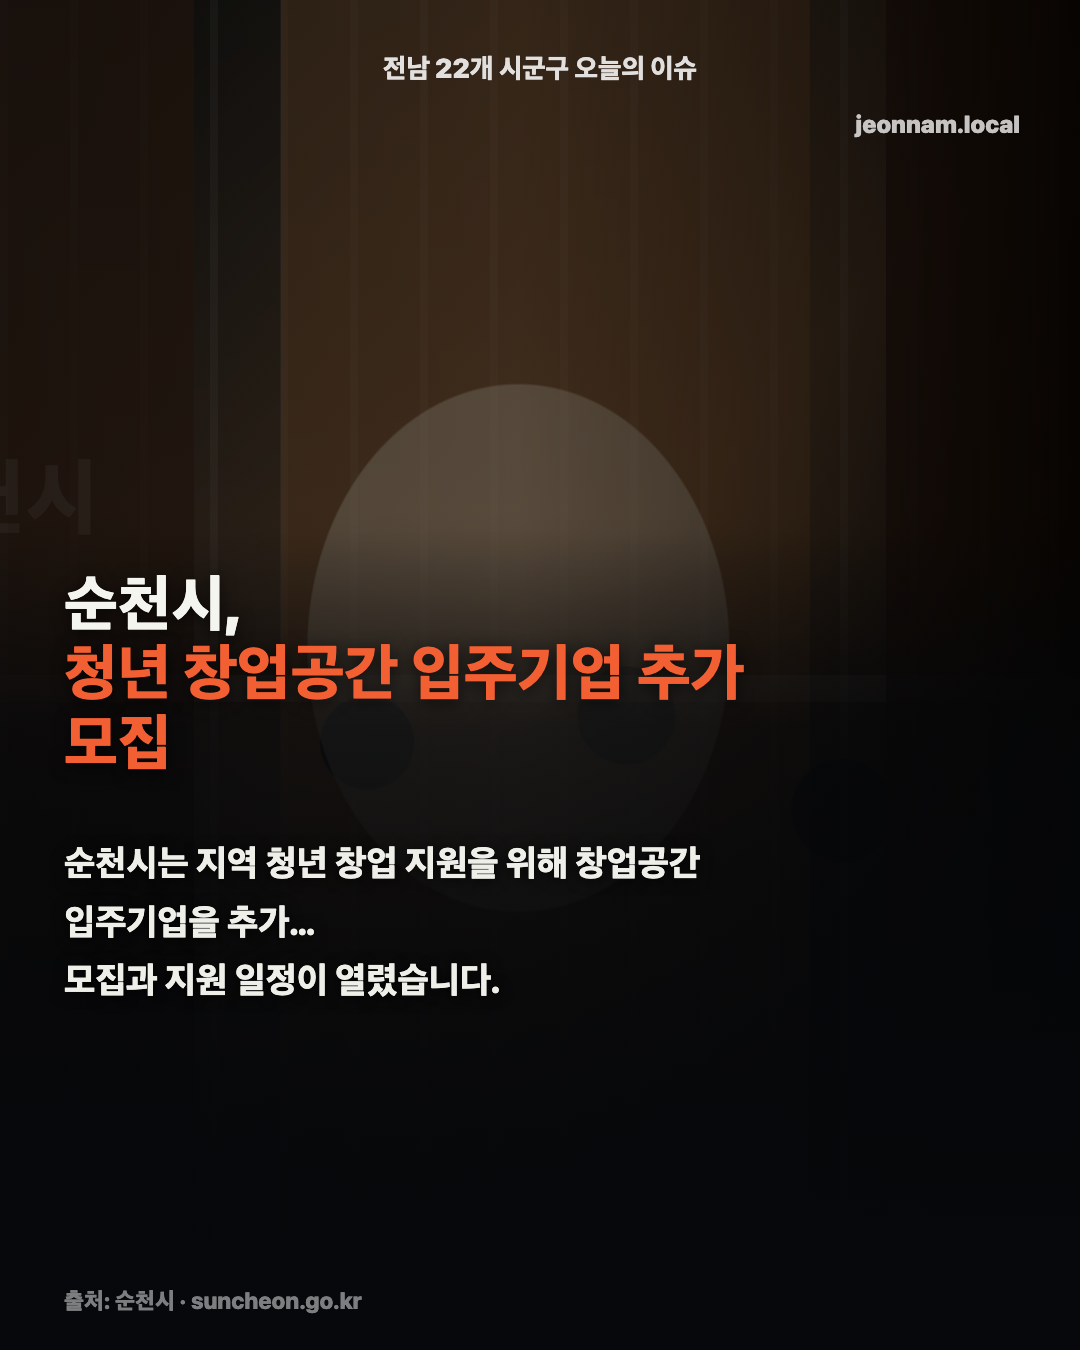
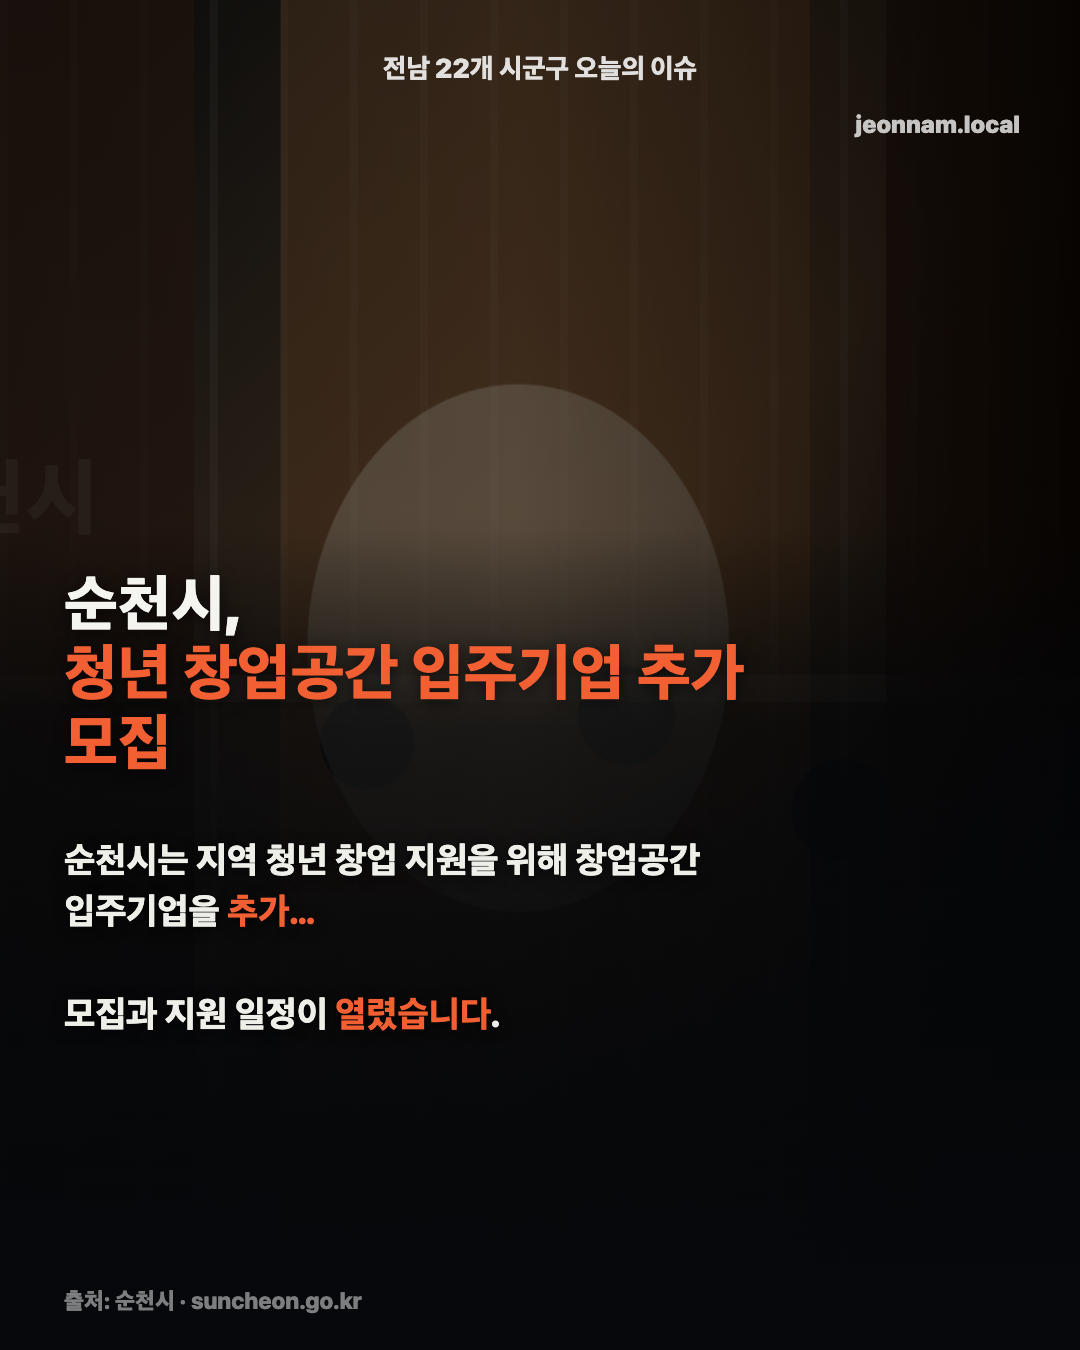
Add inline summary accents

Changed region(s): [[0.0611, 0.6222, 0.6417, 0.7778]]

diff --git a/reports/2026-05-22/html/목포시.html b/reports/2026-05-22/html/목포시.html
@@ -125,11 +125,14 @@
       margin-top: 58px;
       color: #efefea;
       font-size: 36px;
-      line-height: 1.62;
+      line-height: 1.42;
       font-weight: 800;
       max-width: 660px;
       word-break: keep-all;
       text-shadow: 0 2px 14px rgba(0,0,0,.7);
+    }
+    .summary .accent {
+      color: #f15f32;
     }
     .source {
       position: absolute;
@@ -163,7 +166,7 @@
       <h1 class="headline">목포시,<br><span class="accent">해상케이블카 주변 관광 동선 개선 사업 착수</span></h1>
       <div class="category">문화·관광.</div>
       <div class="date">• 2026-05-22</div>
-      <section class="summary">목포시는 주요 관광지 방문객 분산과 보행 안전을 위해 관광 동…<br>관광 동선 변화가 예고됐습니다.</section>
+      <section class="summary">목포시는 주요 관광지 방문객 분산과 보행 안전을 위해 관광 동…<br><br>관광 동선 변화가 <span class="accent">예고됐습니다</span>.</section>
     </section>
     <footer class="source">출처: 목포시 · mokpo.go.kr</footer>
   </main>

diff --git a/reports/2026-05-22/html/순천시.html b/reports/2026-05-22/html/순천시.html
@@ -125,11 +125,14 @@
       margin-top: 58px;
       color: #efefea;
       font-size: 36px;
-      line-height: 1.62;
+      line-height: 1.42;
       font-weight: 800;
       max-width: 660px;
       word-break: keep-all;
       text-shadow: 0 2px 14px rgba(0,0,0,.7);
+    }
+    .summary .accent {
+      color: #f15f32;
     }
     .source {
       position: absolute;
@@ -163,7 +166,7 @@
       <h1 class="headline">순천시,<br><span class="accent">청년 창업공간 입주기업 추가 모집</span></h1>
       <div class="category">복지·생활.</div>
       <div class="date">• 2026-05-22</div>
-      <section class="summary">순천시는 지역 청년 창업 지원을 위해 창업공간 입주기업을 추가…<br>모집과 지원 일정이 열렸습니다.</section>
+      <section class="summary">순천시는 지역 청년 창업 지원을 위해 창업공간 입주기업을 <span class="accent">추가…</span><br><br>모집과 지원 일정이 <span class="accent">열렸습니다</span>.</section>
     </section>
     <footer class="source">출처: 순천시 · suncheon.go.kr</footer>
   </main>

diff --git a/reports/2026-05-22/html/여수시.html b/reports/2026-05-22/html/여수시.html
@@ -125,11 +125,14 @@
       margin-top: 58px;
       color: #efefea;
       font-size: 36px;
-      line-height: 1.62;
+      line-height: 1.42;
       font-weight: 800;
       max-width: 660px;
       word-break: keep-all;
       text-shadow: 0 2px 14px rgba(0,0,0,.7);
+    }
+    .summary .accent {
+      color: #f15f32;
     }
     .source {
       position: absolute;
@@ -163,7 +166,7 @@
       <h1 class="headline">여수시,<br><span class="accent">장마철 침수 취약도로 사전 점검 강화</span></h1>
       <div class="category">안전·교통.</div>
       <div class="date">• 2026-05-22</div>
-      <section class="summary">여수시는 장마철을 앞두고 침수 취약도로와 해안 저지대 배수시설…<br>장마 전 점검이 시작됐습니다.</section>
+      <section class="summary">여수시는 장마철을 앞두고 침수 취약도로와 해안 저지대 <span class="accent">배수시설…</span><br><br>장마 전 점검이 <span class="accent">시작됐습니다</span>.</section>
     </section>
     <footer class="source">출처: 여수시 · yeosu.go.kr</footer>
   </main>

diff --git a/templates/card.html b/templates/card.html
@@ -125,11 +125,14 @@
       margin-top: 58px;
       color: #efefea;
       font-size: 36px;
-      line-height: 1.62;
+      line-height: 1.42;
       font-weight: 800;
       max-width: 660px;
       word-break: keep-all;
       text-shadow: 0 2px 14px rgba(0,0,0,.7);
+    }
+    .summary .accent {
+      color: #f15f32;
     }
     .source {
       position: absolute;

diff --git a/scripts/render_daily.py b/scripts/render_daily.py
@@ -9,8 +9,20 @@ from pathlib import Path
 from common import ROOT, load_json
 
 
+def accent_summary_line(line: str) -> str:
+    escaped = html.escape(line)
+    clean = escaped.rstrip(".")
+    suffix = "." if escaped.endswith(".") else ""
+    if " " not in clean:
+        return escaped
+    prefix, emphasis = clean.rsplit(" ", 1)
+    if len(emphasis) < 3:
+        return escaped
+    return f'{prefix} <span class="accent">{emphasis}</span>{suffix}'
+
+
 def fill_template(template: str, spec: dict) -> str:
-    summary_html = "<br>".join(html.escape(line) for line in spec["summary_lines"])
+    summary_html = "<br><br>".join(accent_summary_line(line) for line in spec["summary_lines"])
     headline = html.escape(spec["headline"])
     region = html.escape(spec["region"])
     if "," in headline: